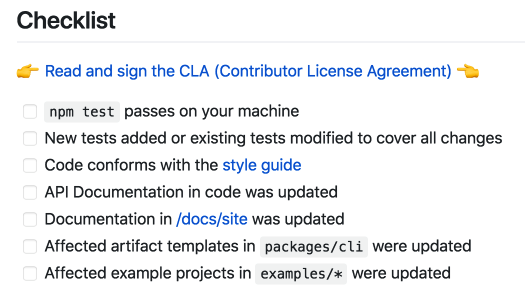
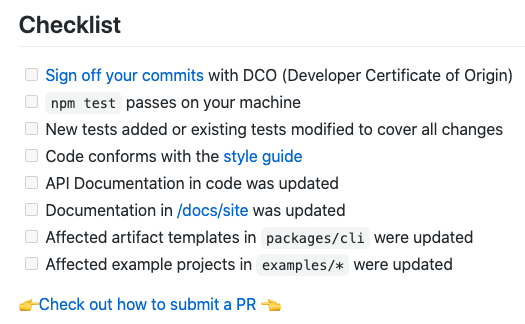
chore: update PR template

diff --git a/docs/site/submitting_a_pr.md b/docs/site/submitting_a_pr.md
@@ -31,6 +31,9 @@ request for LoopBack 4.
 
 ### 1. Commits to local repository
 
+You need to sign off each commit with DCO. See
+[details to sign off](https://loopback.io/doc/en/contrib/code-contrib.html#signing-off-commits-using-dco).
+
 Our commit messages are formatted according to
 [Conventional Commits](https://conventionalcommits.org/).
 
@@ -55,22 +58,14 @@ npm run lint:fix && npm test
 
 {% include note.html content="<b>npm run lint:fix</b> might reformat the source code and fix style issues. Be sure to add such changes to your commit." %}
 
-### 3. After creating PR, sign the CLA and fill out checklist
-
-After creating the pull request, make sure the Contributor License Agreement
-(CLA) has been signed for the `loopback-next` repository.
+### 3. After creating PR, fill out checklist
 
 The pull request has a checklist that must be filled out appropriately.
 
 ![submit_pr_template_1.png](./imgs/submit_pr_template_1.png)
 
-Of particular importance are the
-`'Read and sign the CLA (Contributor License Agreement)'` link and the
-`'npm test passes on your machine'` checkbox.
-
-Click on the
-[Read and sign the CLA (Contributor License Agreement)](https://cla.strongloop.com/agreements/strongloop/loopback-next)
-link, and sign it. This is done once per repository.
+Of particular importance are the `'How to sign off your commits with DCO'` link
+and the `'npm test passes on your machine'` checkbox.
 
 ### 4. Check CI status
 
@@ -207,6 +202,10 @@ git add  { relative path to file from root directory }
 When you are pleased with your staged changes, it is time to create a `commit`
 and give it a message.
 
+You need to sign off each commit with DCO. To sign off, you can use the `-s`
+flag or adding `Signed-off-By: Name<Email>` in the commit message. See
+[details to sign off](https://loopback.io/doc/en/contrib/code-contrib.html#signing-off-commits-using-dco).
+
 Our commit messages are formatted according to
 [Conventional Commits](https://conventionalcommits.org/).
 
@@ -216,7 +215,7 @@ guidelines to correctly format your commit messages.
 
 To help with abiding by the rules of commit messages, please use the
 `commitizen` tool mentioned in the documentation above. This means will we use
-`git cz` instead of `git commit`. Install `commitizen` by running
+`git cz -s` instead of `git commit -s`. Install `commitizen` by running
 `npm install -g commitizen`.
 
 In my case, I want the commit message to look like this:
@@ -231,7 +230,7 @@ This tutorial shows contributors step-by-step instructions on how to submit a pu
 To start `commitizen`, run:
 
 ```
-git cz
+git cz -s
 ```
 
 Follow the prompts for the various fields.
@@ -354,30 +353,18 @@ the purpose of the pull request.
 
 There is `checklist` that must be appropriately filled out.
 
-Of particular importance are the
-`'Read and sign the CLA (Contributor License Agreement)'` link and the
-`'npm test passes on your machine'` checkbox. They are a `pre-condition` to your
-pull request being approved.
+Of particular importance are the `'How to sign off your commits with DCO'` link
+and the `'npm test passes on your machine'` checkbox. They are a `pre-condition`
+to your pull request being approved.
 
 Press the `Create pull request` button.
 
 The pull request is created.
 
-![submit_pr_create_pr_3.png](./imgs/submit_pr_create_pr_3.png)
-
 Some continuous integration (CI) jobs commence; ensure they complete
 successfully.
 
-### 8. Agree to the contributor license agreement (CLA)
-
-You must agree to the contributor license agreement (CLA) before the pull
-request can be `approved` and `merged` by the maintainers.
-
-In the checklist of your pull request, click on the
-[Read and sign the CLA (Contributor License Agreement)](https://cla.strongloop.com/agreements/strongloop/loopback-next)
-link, and sign it. This is done once per repository.
-
-### 9. PR review process
+### 8. PR review process
 
 Once your PR is created, the appropriate reviewer(s) will be notified. This is
 determined by the configuration settings in `/loopback-next/CODEOWNERS`.
@@ -393,7 +380,7 @@ request.
 
 ![submit_pr_pr_review_1.png](./imgs/submit_pr_pr_review_1.png)
 
-### 10. Final rebase and squashing of commits
+### 9. Final rebase and squashing of commits
 
 Once the pull request is finally approved, repeat the `Rebase` section;if
 necessary.
@@ -480,7 +467,7 @@ The remote feature branch and the pull request now have one commit.
 
 ![submit_pr_squash_commits_7.png](./imgs/submit_pr_squash_commits_7.png)
 
-### 11. Ensure CI jobs complete successfully
+### 10. Ensure CI jobs complete successfully
 
 The `post-condition` to your pull request being approved, is that all the
 continuous integration (CI) jobs complete successfully.
@@ -500,7 +487,7 @@ us to the Travis CI build page.
 
 Here you can investigate the status of the job, its sub-jobs, or restart them.
 
-### 12. Maintainer merges the pull request
+### 11. Maintainer merges the pull request
 
 When a project maintainer is satisfied with the pull request, he/she will
 `merge` it into the `master` branch of the `strongloop/loopback-next`
@@ -518,7 +505,7 @@ When a project maintainer is satisfied with the pull request, he/she will
 
 - [Commit Message Format](https://loopback.io/doc/en/lb4/code-contrib-lb4.html#commit-message-guidelines)
 
-- [Agreeing to the CLA](https://loopback.io/doc/en/contrib/code-contrib.html#agreeing-to-the-cla)
+- [Signing off commits using DCO](https://loopback.io/doc/en/contrib/code-contrib.html#signing-off-commits-using-dco)
 
 - [Collaborating with issues and pull requests](https://help.github.com/categories/collaborating-with-issues-and-pull-requests/)
 

diff --git a/.github/PULL_REQUEST_TEMPLATE.md b/.github/PULL_REQUEST_TEMPLATE.md
@@ -10,8 +10,7 @@ See also #23
 
 ## Checklist
 
-👉 [Read and sign the CLA (Contributor License Agreement)](https://cla.strongloop.com/agreements/strongloop/loopback-next) 👈
-
+- [ ] DCO (Developer Certificate of Origin) [signed in all commits](https://loopback.io/doc/en/contrib/code-contrib.html)
 - [ ] `npm test` passes on your machine
 - [ ] New tests added or existing tests modified to cover all changes
 - [ ] Code conforms with the [style guide](http://loopback.io/doc/en/contrib/style-guide.html)
